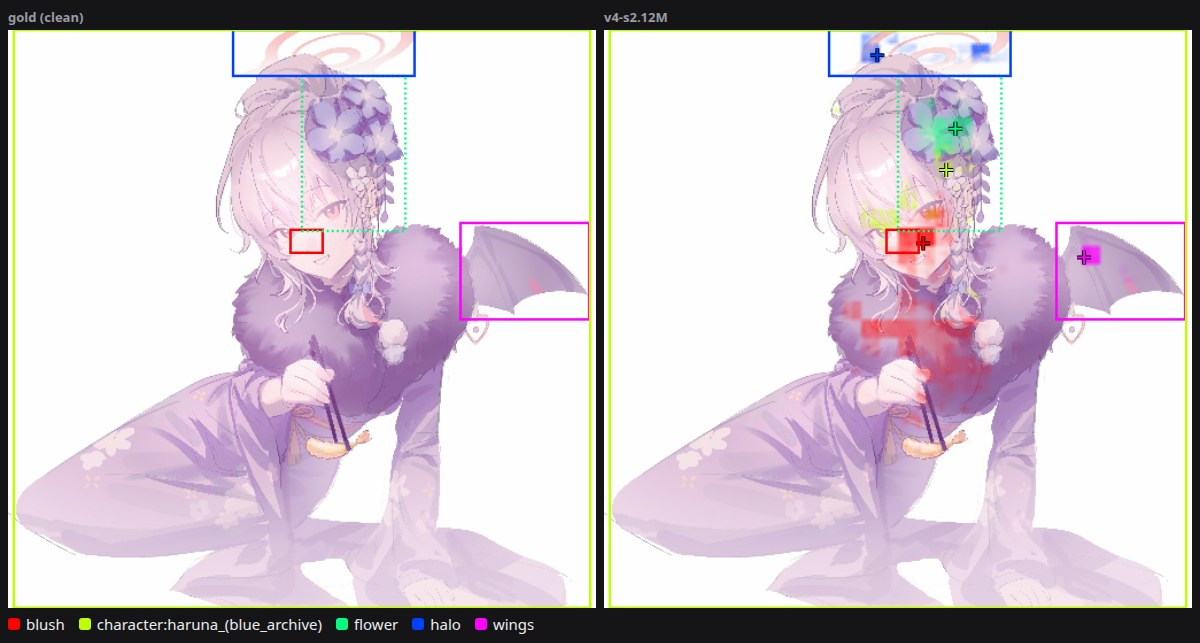
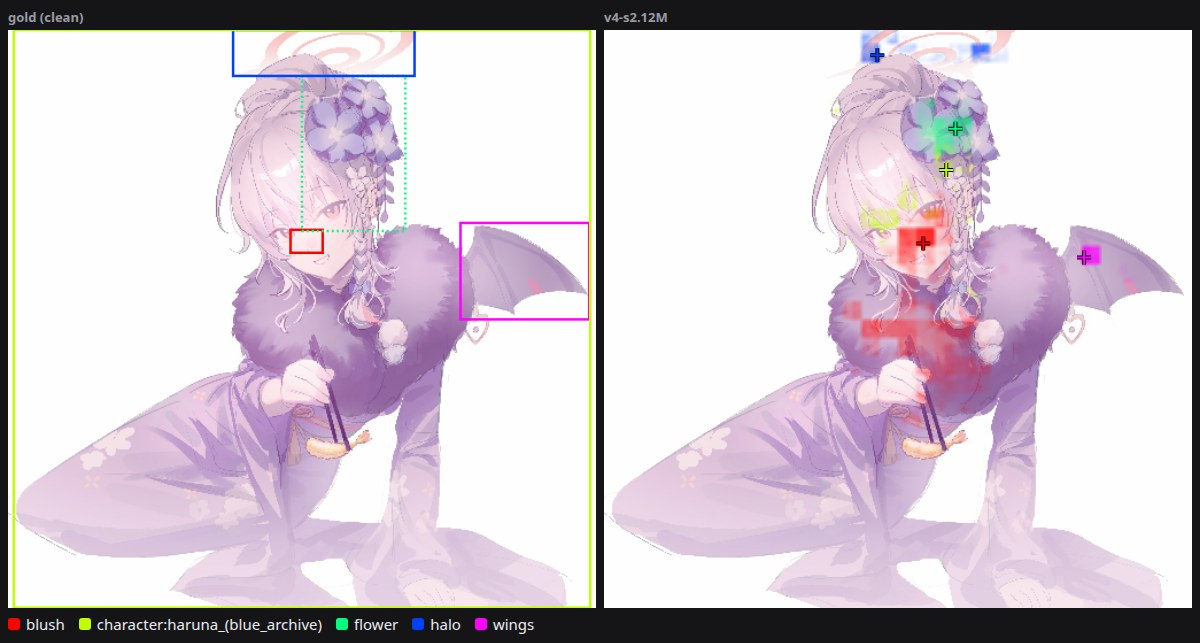
Boxes: keep further regions only near the tag's peak; figures without gold boxes on the model panel
detect's 4-log-odds band took in faint secondary blobs that the drawn heatmap shows as nearly clear, and each
tag kept up to 3 of them. A further region is now boxed only when its own peak is within 1 log-odds of the
tag's peak (--box-peak-margin, TagScorer.DefaultBoxPeakMargin; render-gold and the evaluator follow it). Run 4
at 2.12M, 678 object-tag gold pairs: box precision 0.19 -> 0.27, recall 0.25 -> 0.22, boxes 1,660 -> 1,028.
No band, smoothing or trim did much better: a map's extent isn't its object's.

The example figures no longer draw the hand-drawn gold boxes over the model's heatmaps, where they read as the
model's own boxes; the README and EXAMPLES captions say so.

Changed region(s): [[0.4933, 0.0311, 1.0, 0.9642], [0.74, 0.3421, 0.8325, 0.4044]]

diff --git a/unbooru-tagger-inference/Commands/DetectCommandHandler.cs b/unbooru-tagger-inference/Commands/DetectCommandHandler.cs
@@ -22,11 +22,11 @@ public static class DetectCommandHandler
 
     public static int Run(
         string modelDir, string imagePath, float? threshold, float boxThreshold, float boxPercentile, float minHeatmapRange,
-        float minBoxFraction, int maxBoxesPerTag, string? outputPath, float boxBelowPeak = TagScorer.DefaultBoxBelowPeak)
+        float minBoxFraction, int maxBoxesPerTag, string? outputPath, float boxBelowPeak = TagScorer.DefaultBoxBelowPeak, float boxPeakMargin = TagScorer.DefaultBoxPeakMargin)
     {
         using var model = ModelBundle.Load(modelDir);
 
-        var detections = Detect(model, imagePath, threshold, boxThreshold, boxPercentile, minHeatmapRange, minBoxFraction, maxBoxesPerTag, boxBelowPeak: boxBelowPeak);
+        var detections = Detect(model, imagePath, threshold, boxThreshold, boxPercentile, minHeatmapRange, minBoxFraction, maxBoxesPerTag, boxBelowPeak: boxBelowPeak, boxPeakMargin: boxPeakMargin);
 
         Console.WriteLine(JsonSerializer.Serialize(detections, new JsonSerializerOptions { WriteIndented = true }));
 
@@ -62,12 +62,12 @@ public static class DetectCommandHandler
     public static List<TagDetection> Detect(
         ModelBundle model, string imagePath, float? threshold, float boxThreshold, float boxPercentile, float minHeatmapRange = 0.05f,
         float minBoxFraction = 0f, int maxBoxesPerTag = 0, IReadOnlyDictionary<string, float>? scores = null, IReadOnlySet<string>? onlyTags = null,
-        float boxBelowPeak = TagScorer.DefaultBoxBelowPeak)
+        float boxBelowPeak = TagScorer.DefaultBoxBelowPeak, float boxPeakMargin = TagScorer.DefaultBoxPeakMargin)
     {
         using var bitmap = SKBitmap.Decode(imagePath)
             ?? throw new InvalidDataException($"Could not decode image at '{imagePath}'.");
         var encoding = model.ImageEncoder.EncodeBatch([ImagePreprocessing.Normalize(bitmap, model.ImageEncoder.InputSize)])[0];
-        return Detect(model, encoding, RefinementGuide.From(bitmap), threshold, boxThreshold, boxPercentile, minHeatmapRange, minBoxFraction, maxBoxesPerTag, scores, onlyTags, boxBelowPeak: boxBelowPeak);
+        return Detect(model, encoding, RefinementGuide.From(bitmap), threshold, boxThreshold, boxPercentile, minHeatmapRange, minBoxFraction, maxBoxesPerTag, scores, onlyTags, boxBelowPeak: boxBelowPeak, boxPeakMargin: boxPeakMargin);
     }
 
     /// <summary>What box refinement needs from the source image, so a caller can drop the decoded bitmap early.</summary>
@@ -81,7 +81,7 @@ public static class DetectCommandHandler
     public static List<TagDetection> Detect(
         ModelBundle model, ImageEncoding encoding, RefinementGuide guide, float? threshold, float boxThreshold, float boxPercentile,
         float minHeatmapRange = 0.05f, float minBoxFraction = 0f, int maxBoxesPerTag = 0, IReadOnlyDictionary<string, float>? scores = null,
-        IReadOnlySet<string>? onlyTags = null, IDictionary<string, float[,]>? heatmaps = null, float boxBelowPeak = TagScorer.DefaultBoxBelowPeak)
+        IReadOnlySet<string>? onlyTags = null, IDictionary<string, float[,]>? heatmaps = null, float boxBelowPeak = TagScorer.DefaultBoxBelowPeak, float boxPeakMargin = TagScorer.DefaultBoxPeakMargin)
     {
         var spatialFeatures = encoding.SpatialFeatures
             ?? throw new ArgumentException("Detection needs the encoding's spatial features (EncodeBatch with withHeatmapFeatures: true).", nameof(encoding));
@@ -102,7 +102,7 @@ public static class DetectCommandHandler
             var refinedHeatmap = HeatmapRefiner.Refine(heatmap, guide.Guide);
             var boxes = TagScorer.DetectBoxes(
                 refinedHeatmap, boxThreshold, boxPercentile, guide.Content, RefinementSize, guide.ImageWidth, guide.ImageHeight, minHeatmapRange,
-                minBoxFraction, maxBoxesPerTag, boxBelowPeak);
+                minBoxFraction, maxBoxesPerTag, boxBelowPeak, boxPeakMargin);
             detections.Add(new TagDetection(model.Vocabulary.GetByRowIndex(row).Tag, confidence, boxes));
         }
 

diff --git a/unbooru-tagger-inference/Program.cs b/unbooru-tagger-inference/Program.cs
@@ -52,6 +52,11 @@ var boxBelowPeakOption = new Option<float>("--box-below-peak")
     Description = "Cut each tag's heatmap this many log-odds below its own peak to form boxes (0 = cut at --box-percentile of its probability range instead, as before 2026-11-04)",
     DefaultValueFactory = _ => TagScorer.DefaultBoxBelowPeak
 };
+var boxPeakMarginOption = new Option<float>("--box-peak-margin")
+{
+    Description = "With --box-below-peak, box a tag's further regions only when their own peak is within this many log-odds of the tag's peak (0 = every region)",
+    DefaultValueFactory = _ => TagScorer.DefaultBoxPeakMargin
+};
 var maxBoxesPerTagOption = new Option<int>("--max-boxes-per-tag")
 {
     Description = "Keep at most this many boxes per tag, strongest peak first. 0 keeps every box",
@@ -126,6 +131,7 @@ detectCommand.Options.Add(minHeatmapRangeOption);
 detectCommand.Options.Add(minBoxFractionOption);
 detectCommand.Options.Add(maxBoxesPerTagOption);
 detectCommand.Options.Add(boxBelowPeakOption);
+detectCommand.Options.Add(boxPeakMarginOption);
 detectCommand.Options.Add(detectOutputOption);
 detectCommand.SetAction(parseResult => DetectCommandHandler.Run(
     parseResult.GetRequiredValue(modelDirOption),
@@ -137,7 +143,8 @@ detectCommand.SetAction(parseResult => DetectCommandHandler.Run(
     parseResult.GetRequiredValue(minBoxFractionOption),
     parseResult.GetRequiredValue(maxBoxesPerTagOption),
     parseResult.GetValue(detectOutputOption),
-    parseResult.GetRequiredValue(boxBelowPeakOption)));
+    parseResult.GetRequiredValue(boxBelowPeakOption),
+    parseResult.GetRequiredValue(boxPeakMarginOption)));
 
 var goldArgument = new Argument<string>("gold") { Description = "Gold set file (gold.json); its images are resolved relative to it" };
 var renderOutDirOption = new Option<string>("--out-dir") { Description = "Directory to write one PNG per gold image", Required = true };
@@ -159,6 +166,7 @@ renderGoldCommand.Options.Add(minHeatmapRangeOption);
 renderGoldCommand.Options.Add(minBoxFractionOption);
 renderGoldCommand.Options.Add(maxBoxesPerTagOption);
 renderGoldCommand.Options.Add(boxBelowPeakOption);
+renderGoldCommand.Options.Add(boxPeakMarginOption);
 renderGoldCommand.Options.Add(allTagsOption);
 renderGoldCommand.Options.Add(pngOption);
 var goldScoresOption = new Option<string?>("--scores")
@@ -195,7 +203,8 @@ renderGoldCommand.SetAction(parseResult => RenderGoldCommandHandler.Run(
     parseResult.GetRequiredValue(deviceOption),
     parseResult.GetRequiredValue(batchSizeOption),
     parseResult.GetValue(heatmapsOption),
-    parseResult.GetRequiredValue(boxBelowPeakOption)));
+    parseResult.GetRequiredValue(boxBelowPeakOption),
+    parseResult.GetRequiredValue(boxPeakMarginOption)));
 
 var resultsOption = new Option<string>("--out")
 {
@@ -223,6 +232,7 @@ detectBatchCommand.Options.Add(minHeatmapRangeOption);
 detectBatchCommand.Options.Add(minBoxFractionOption);
 detectBatchCommand.Options.Add(maxBoxesPerTagOption);
 detectBatchCommand.Options.Add(boxBelowPeakOption);
+detectBatchCommand.Options.Add(boxPeakMarginOption);
 detectBatchCommand.SetAction(parseResult => DetectBatchCommandHandler.Run(
     parseResult.GetRequiredValue(modelDirOption),
     parseResult.GetRequiredValue(directoryArgument),
@@ -239,7 +249,8 @@ detectBatchCommand.SetAction(parseResult => DetectBatchCommandHandler.Run(
     parseResult.GetRequiredValue(minHeatmapRangeOption),
     parseResult.GetRequiredValue(minBoxFractionOption),
     parseResult.GetRequiredValue(maxBoxesPerTagOption),
-    parseResult.GetRequiredValue(boxBelowPeakOption)));
+    parseResult.GetRequiredValue(boxBelowPeakOption),
+    parseResult.GetRequiredValue(boxPeakMarginOption)));
 
 var rootCommand = new RootCommand("unbooru-tagger inference CLI")
 {

diff --git a/unbooru-tagger-core/Scoring/TagScorer.cs b/unbooru-tagger-core/Scoring/TagScorer.cs
@@ -24,6 +24,14 @@ public static class TagScorer
     public const float DefaultBoxThreshold = 0.5f;
     public const float DefaultBoxPercentile = 0.6f;
     public const float DefaultBoxBelowPeak = 4f;
+    /// <summary>
+    /// With a below-peak cut, a tag's further regions are boxed only when their own peak is within this many log-odds of the tag's
+    /// peak. A 4-log-odds band also takes in faint secondary blobs that a heatmap drawn by opacity shows as nearly clear, and those
+    /// made most of the boxes the user saw as worse than the maps (2026-11-04, `review/regions/tune3.py`/`tune4.py`, run 4 at 2.12M,
+    /// 678 object-tag gold pairs): box precision 0.19 -> 0.27, recall 0.25 -> 0.22 at IoU 0.3 (0.06 -> 0.09 / 0.08 -> 0.07 at 0.5),
+    /// boxes 1,660 -> 1,028. No cut or smoothing did much better (best F1 0.26 vs 0.24): a map's extent isn't its object's.
+    /// </summary>
+    public const float DefaultBoxPeakMargin = 1f;
     public const float DefaultMinHeatmapRange = 0.05f;
     public const float DefaultMinBoxFraction = 0.0005f;
     public const int DefaultMaxBoxesPerTag = 3;
@@ -85,10 +93,12 @@ public static class TagScorer
     /// <param name="belowPeak">When above 0, cut this many log-odds below the heatmap's peak instead of at
     /// <paramref name="relativePercentile"/> of its probability range (<paramref name="threshold"/> then only decides whether the
     /// tag gets boxes at all: its peak must reach it).</param>
+    /// <param name="peakMargin">With <paramref name="belowPeak"/>, keeps only regions whose own peak is within this many log-odds of
+    /// the tag's peak (<see cref="DefaultBoxPeakMargin"/>). 0 keeps every region.</param>
     public static List<BoundingBox> DetectBoxes(
         float[,] heatmap, float threshold, float relativePercentile,
         LetterboxBox content, int canvasSize, int imageWidth, int imageHeight, float minRange = 0.05f,
-        float minComponentFraction = 0f, int maxBoxes = 0, float belowPeak = 0f)
+        float minComponentFraction = 0f, int maxBoxes = 0, float belowPeak = 0f, float peakMargin = 0f)
     {
         var height = heatmap.GetLength(0);
         var width = heatmap.GetLength(1);
@@ -105,12 +115,15 @@ public static class TagScorer
             return [];
 
         float effectiveThreshold;
+        var regionFloor = float.MinValue;
         if (belowPeak > 0)
         {
             if (max < threshold)
                 return [];
             var peak = Math.Clamp(max, 1e-7f, 1 - 1e-7f);
             effectiveThreshold = Sigmoid(MathF.Log(peak / (1 - peak)) - belowPeak);
+            if (peakMargin > 0)
+                regionFloor = Sigmoid(MathF.Log(peak / (1 - peak)) - peakMargin);
         }
         else
         {
@@ -140,7 +153,7 @@ public static class TagScorer
             var (box, cellCount) = FloodFillComponent(
                 heatmap, visited, x, y, effectiveThreshold,
                 gridToCanvasX, gridToCanvasY, canvasToImageX, canvasToImageY, content, imageWidth, imageHeight);
-            if (cellCount >= minCells)
+            if (cellCount >= minCells && box.Confidence >= regionFloor)
                 boxes.Add(box);
         }
 

diff --git a/unbooru-tagger-inference/Commands/DetectBatchCommandHandler.cs b/unbooru-tagger-inference/Commands/DetectBatchCommandHandler.cs
@@ -22,7 +22,7 @@ public static class DetectBatchCommandHandler
     public static int Run(
         string modelDir, string directory, string outputPath, string? renderDirectory, bool boxes, bool recursive,
         int batchSize, int workers, InferenceDevice device, float? threshold, float boxThreshold, float boxPercentile,
-        float minHeatmapRange, float minBoxFraction, int maxBoxesPerTag, float boxBelowPeak = TagScorer.DefaultBoxBelowPeak)
+        float minHeatmapRange, float minBoxFraction, int maxBoxesPerTag, float boxBelowPeak = TagScorer.DefaultBoxBelowPeak, float boxPeakMargin = TagScorer.DefaultBoxPeakMargin)
     {
         using var model = ModelBundle.Load(modelDir, device: device);
         var images = BatchPipeline.FindImages(directory, recursive);
@@ -45,7 +45,7 @@ public static class DetectBatchCommandHandler
                     (item, encoding) =>
                     {
                         var detections = boxes
-                            ? DetectCommandHandler.Detect(model, encoding, item.Guide!, threshold, boxThreshold, boxPercentile, minHeatmapRange, minBoxFraction, maxBoxesPerTag, boxBelowPeak: boxBelowPeak)
+                            ? DetectCommandHandler.Detect(model, encoding, item.Guide!, threshold, boxThreshold, boxPercentile, minHeatmapRange, minBoxFraction, maxBoxesPerTag, boxBelowPeak: boxBelowPeak, boxPeakMargin: boxPeakMargin)
                             : TagCommandHandler.Score(model, encoding, threshold).Select(s => new TagDetection(s.Tag, s.Confidence, [])).ToList();
                         var rating = TagCommandHandler.PredictRating(model, detections.Select(d => (d.Tag, d.Confidence)).ToList());
                         var relative = Path.GetRelativePath(directory, item.Path);

diff --git a/unbooru-tagger-inference/Commands/RenderGoldCommandHandler.cs b/unbooru-tagger-inference/Commands/RenderGoldCommandHandler.cs
@@ -86,7 +86,7 @@ public static class RenderGoldCommandHandler
         string goldPath, string outputDirectory, string? modelDir, float? threshold,
         float boxThreshold, float boxPercentile, float minHeatmapRange, float minBoxFraction, int maxBoxesPerTag, bool allTags = false, bool png = false,
         string? scoresPath = null, float? minConfidence = null, InferenceDevice device = InferenceDevice.Cpu, int batchSize = 16, bool writeHeatmaps = false,
-        float boxBelowPeak = TagScorer.DefaultBoxBelowPeak)
+        float boxBelowPeak = TagScorer.DefaultBoxBelowPeak, float boxPeakMargin = TagScorer.DefaultBoxPeakMargin)
     {
         var goldDirectory = Path.GetDirectoryName(Path.GetFullPath(goldPath))!;
         using var document = JsonDocument.Parse(File.ReadAllText(goldPath));
@@ -137,7 +137,7 @@ public static class RenderGoldCommandHandler
                         detected[c] = DetectCommandHandler.Detect(
                             model, encodings![c], DetectCommandHandler.RefinementGuide.From(bitmaps[c]), minConfidence ?? threshold, boxThreshold,
                             boxPercentile, minHeatmapRange, minBoxFraction, maxBoxesPerTag, scores?.GetValueOrDefault(chunk[c].GetProperty("cacheIndex").GetInt32()),
-                            targets, writeHeatmaps ? tagHeatmaps[c] : null, boxBelowPeak);
+                            targets, writeHeatmaps ? tagHeatmaps[c] : null, boxBelowPeak, boxPeakMargin);
                     });
                     boxTime.Stop();
                 }

diff --git a/unbooru-tagger-tests/Core/TagScorerTests.cs b/unbooru-tagger-tests/Core/TagScorerTests.cs
@@ -85,6 +85,27 @@ public class TagScorerTests
     }
 
     [Fact]
+    public void DetectBoxes_PeakMarginDropsFaintSecondaryRegions()
+    {
+        static float P(float logit) => 1f / (1f + MathF.Exp(-logit));
+        // Three separate regions in the 4-log-odds band: the peak (8), one 0.5 below it, one 3 below it.
+        var heatmap = new float[,]
+        {
+            { P(8), P(-6), P(7.5f), P(-6) },
+            { P(-6), P(-6), P(-6), P(-6) },
+            { P(5), P(-6), P(-6), P(-6) },
+            { P(-6), P(-6), P(-6), P(-6) }
+        };
+        var canvas = new LetterboxBox(0, 0, 4, 4);
+
+        var all = TagScorer.DetectBoxes(heatmap, threshold: 0.5f, relativePercentile: 0.6f, canvas, canvasSize: 4, imageWidth: 4, imageHeight: 4, belowPeak: 4f);
+        var near = TagScorer.DetectBoxes(heatmap, threshold: 0.5f, relativePercentile: 0.6f, canvas, canvasSize: 4, imageWidth: 4, imageHeight: 4, belowPeak: 4f, peakMargin: 1f);
+
+        Assert.Equal(3, all.Count);
+        Assert.Equal([0, 2], near.Select(b => b.X).Order());
+    }
+
+    [Fact]
     public void DetectBoxes_AbsoluteThresholdActsAsAFloorRegardlessOfPercentile()
     {
         var heatmap = new float[,] { { 0.3f, 0.2f }, { 0.1f, 0.05f } };

diff --git a/unbooru-tagger-training/Training/LocalizationEvaluator.cs b/unbooru-tagger-training/Training/LocalizationEvaluator.cs
@@ -1463,7 +1463,8 @@ public sealed class LocalizationEvaluator(
     /// <summary>Boxes as <c>detect</c> extracts them (its defaults), in content pixels; without its edge-guided refinement, which needs the source image.</summary>
     private List<BoundingBox> DetectBoxes(float[,] map, LetterboxBox content) =>
         TagScorer.DetectBoxes(map, TagScorer.DefaultBoxThreshold, TagScorer.DefaultBoxPercentile, content, inputSize, content.Width, content.Height,
-            TagScorer.DefaultMinHeatmapRange, TagScorer.DefaultMinBoxFraction, TagScorer.DefaultMaxBoxesPerTag, TagScorer.DefaultBoxBelowPeak);
+            TagScorer.DefaultMinHeatmapRange, TagScorer.DefaultMinBoxFraction, TagScorer.DefaultMaxBoxesPerTag, TagScorer.DefaultBoxBelowPeak,
+            TagScorer.DefaultBoxPeakMargin);
 
     /// <summary>The best map cell inside <paramref name="boxes"/> (cell centres, content pixels), as the share of the content's cells at or below it.</summary>
     private double BoxBestRank(float[,] map, LetterboxBox content, int[][] boxes)

diff --git a/README.md b/README.md
@@ -18,8 +18,8 @@ ONNX Runtime, from one command-line tool. There is no Python in the repository.
 ### Example
 
 Run 4's model on one image from the hand-checked gold set: the gold boxes (left) and the model's heatmap for each of
-the image's tags (right; one hue per tag, opaque at its strongest evidence and mixed where tags overlap, + at its peak, the
-gold boxes on top). The gold set mostly overlaps
+the image's tags (right; one hue per tag, opaque at its strongest evidence and mixed where tags overlap, + at its peak). Every box in it
+is hand-drawn; the model's heatmaps carry no boxes. The gold set mostly overlaps
 run 4's training split, so this shows what the output looks like, not held-out accuracy. Artwork by **hiyuu (hiyualice)**
 ([Danbooru post 6776791](https://danbooru.donmai.us/posts/6776791)). Twelve more, failures included:
 [docs/EXAMPLES.md](docs/EXAMPLES.md).
@@ -235,6 +235,7 @@ unbooru-tagger-inference render-gold ./gold/gold.json --out-dir ./gold/renders -
 | `--threshold` | the tag's calibrated threshold, else 0.5 | tag, tag-batch, detect, detect-batch, render-gold | Minimum confidence to report a tag. |
 | `--box-threshold` | 0.5 | detect, detect-batch, render-gold | A tag gets boxes only if its heatmap's peak reaches this (with `--box-below-peak 0`: the minimum confidence for a cell to join a box). |
 | `--box-below-peak` | 4 | same | Cut each tag's heatmap this many log-odds below its own peak to form boxes. 0 = the old cut, at `--box-percentile` of its probability range. |
+| `--box-peak-margin` | 1 | same | Box a tag's further regions only when their own peak is within this many log-odds of the tag's peak (0 = every region). |
 | `--box-percentile` | 0.6 | same | With `--box-below-peak 0`: cut within each tag's own heatmap range (0 = its weakest cell, 1 = only its peak). |
 | `--min-heatmap-range` | 0.05 | same | No boxes for a tag whose heatmap is flatter than this. |
 | `--min-box-fraction` | 0.0005 | same | Drop regions smaller than this fraction of the map. |

diff --git a/research/experiments-localization.md b/research/experiments-localization.md
@@ -413,3 +413,20 @@ percentile cut P 0.08 / R 0.12 (small 0 / 0), peak − 4 P 0.19 / R 0.25 (small 
 (peak − 2.5: 0.24 / 0.24), larger ones large objects (peak − 5: 0.20 / 0.35); `detect` doesn't know the size, so it uses 4. The
 0.2% minimum region had discarded every small object's box. `TagScorer.DefaultBoxBelowPeak` = 4, `DefaultMinBoxFraction` = 0.0005;
 the evaluator's box metrics follow, and it reports region precision/recall at that cut (`GoldResult.RegionPrecision`).
+
+The user then found detect's boxes still far worse than the drawn maps. A 4-log-odds band also takes in faint secondary blobs that
+the overlay shows as nearly clear, and each tag kept up to 3 of them. Same pairs (678 object-tag gold pairs), `review/regions/tune3.py`
+and `tune4.py`: band 1-6, a margin (a further region is boxed only if its own peak is within m log-odds of the tag's peak), smoothing
+the map (box filter radius 0-2 cells) and trimming each box to its cells' weighted 5-95% or 10-90% quantiles.
+
+| Rule | P / R at IoU ≥ 0.3 | at IoU ≥ 0.5 | small / medium / large recall (0.3) | boxes |
+|---|---|---|---|---|
+| peak − 4, every region (until now) | 0.19 / 0.25 | 0.06 / 0.08 | 0.13 / 0.32 / 0.34 | 1,660 |
+| peak − 4, margin 1 (adopted) | 0.27 / 0.22 | 0.09 / 0.07 | 0.11 / 0.28 / 0.33 | 1,028 |
+| peak − 4, margin 0.5 | 0.30 / 0.20 | 0.10 / 0.07 | 0.10 / 0.25 / 0.31 | 853 |
+| peak − 3, margin 1, smoothed r 2 (best F1) | 0.30 / 0.23 | 0.11 / 0.10 | 0.07 / 0.34 / 0.31 | 994 |
+
+Nothing did much better (best F1 0.26 against 0.24): smoothing gains medium objects and loses small ones, trimming lost everywhere,
+and at IoU ≥ 0.5 every rule is near 0.1. A map's extent isn't its object's; the peak and the band are what to read.
+`TagScorer.DefaultBoxPeakMargin` = 1 (`--box-peak-margin`); `render-gold` and the evaluator follow it. The compare page also has a
+mode with nothing drawn, where hovering a tag, a gold box or a spot on the image shows that tag's map, peak and boxes.

diff --git a/docs/EXAMPLES.md b/docs/EXAMPLES.md
@@ -2,7 +2,8 @@
 
 Twelve images from the hand-checked gold set, scored by run 4 at step 2.12M (`model-v4-s2.12M`, the first hours of
 mixed-scale training). Left: the gold boxes (solid: certain, dashed: unsure, dotted: a group). Right: the model's heatmap
-for each of the image's gold tags, drawn over the image, with the same gold boxes on top.
+for each of the image's gold tags, drawn over the image. Every box is hand-drawn gold; the model's panel shows only its maps,
+so compare the two side by side.
 
 How to read them:
 
@@ -22,7 +23,9 @@ and every earlier model, is the compare page (`gold/compare.html`, outside git; 
 It used to keep every cell above 60% of a tag's probability range, about a fifth of the image for every tag, an earring as much
 as a coat. It now cuts 4 log-odds below each tag's peak (`--box-below-peak`): over the gold set's object tags, box precision
 0.08 → 0.19, recall 0.12 → 0.25, and small objects found at all (0 → 0.11 / 0.14). Cutting 2 log-odds below the peak, 62% of a
-medium object's region lies on the object, against 12% before.
+medium object's region lies on the object, against 12% before. A further region now gets a box only if its own peak is within 1
+log-odds of the tag's (`--box-peak-margin`): precision 0.27, recall 0.22. Boxes still read worse than the maps, since a map's extent
+isn't its object's; the peak and the band are what to read.
 
 ---
 

diff --git a/CLAUDE.md b/CLAUDE.md
@@ -676,6 +676,9 @@ built the corpus around:
     mostly peak on their objects, but the probability-range cut kept about a fifth of the image for every tag. On run 4 at 2.12M:
     box precision 0.08 -> 0.19, recall 0.12 -> 0.25, small objects 0 -> 0.11 / 0.14 (minimum region 0.2% -> 0.05% of the map).
     The gold evaluation also reports region precision/recall at that cut (`GoldResult.RegionPrecision`), charted by size.
+    A tag's further regions are boxed only when their own peak is within 1 log-odds of its peak (`--box-peak-margin`,
+    `TagScorer.DefaultBoxPeakMargin`): the band took in faint blobs the drawn map shows as clear. Box precision 0.19 -> 0.27, recall
+    0.25 -> 0.22; no cut, smoothing or trim did much better, since a map's extent isn't its object's.
   - A joint bilateral filter (`HeatmapRefiner`) uses the source image's own
     edges as a guide to snap the heatmap boundary to real object
     contours — the label-free version of the CAM+DenseCRF refinement trick
